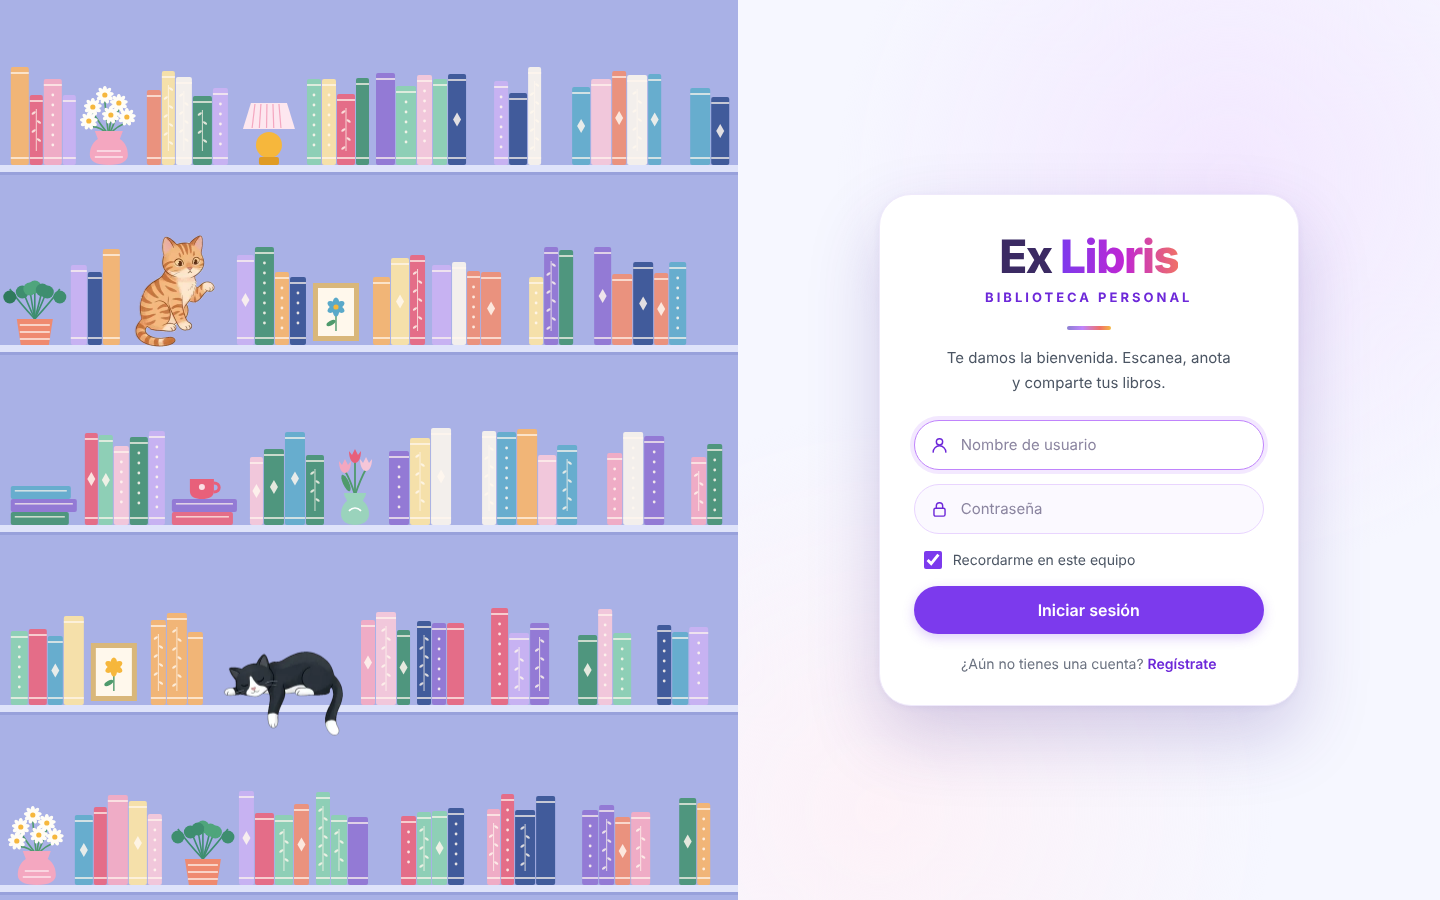
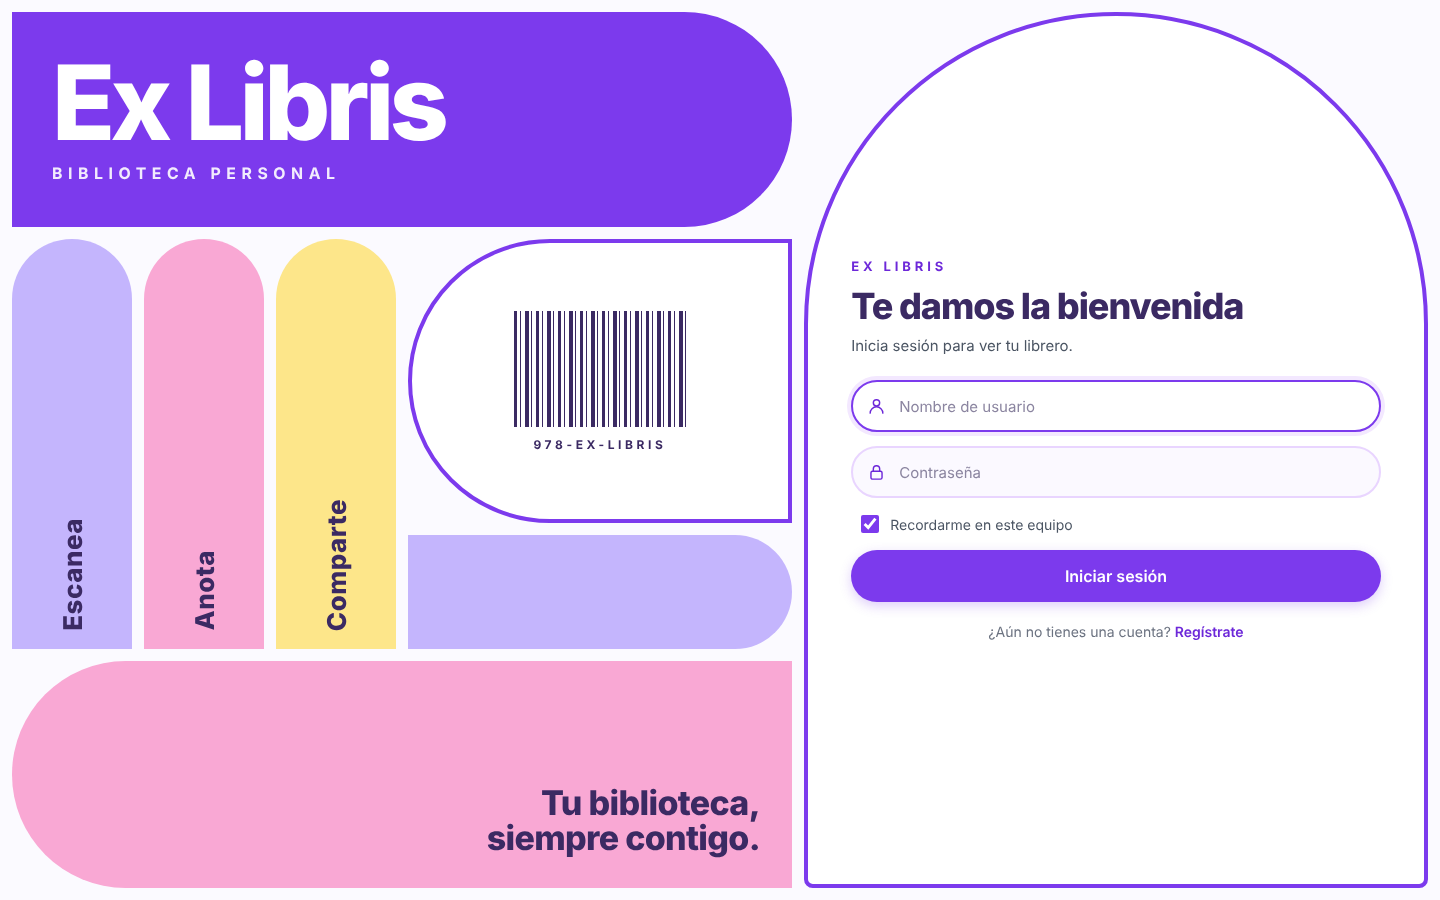
Login rediseñado como cartel geométrico de bloques-libro
- Cartel con CSS Grid: marca, lomos Escanea/Anota/Comparte, código de barras y lema
- Formulario dentro de un lomo blanco con arco superior
- Se elimina la ilustración del librero con gatos y su generador

Claude-Session: https://claude.ai/code/session_01GYL794gNVj3QXKcKwqtHSP

diff --git a/biblioteca/static/biblioteca/css/exlibris.css b/biblioteca/static/biblioteca/css/exlibris.css
@@ -456,37 +456,63 @@ a:focus-visible, button:focus-visible, select:focus-visible, input[type=file]:fo
 .separador { display: flex; align-items: center; gap: 12px; color: var(--texto-suave); font-size: 13px; margin: 22px 0; }
 .separador::before, .separador::after { content: ""; flex: 1; height: 1px; background: var(--borde); }
 
-/* ---------- Acceso (login / registro) ----------
-   Dos columnas: ilustración del librero con dos gatos a la izquierda y la tarjeta de la marca a la derecha.
-   Tarjeta: blanca; jerarquía marca → subtítulo → bienvenida → formulario. */
-.acceso { min-height: 100vh; min-height: 100dvh; display: grid; grid-template-columns: 1.05fr 1fr; background: var(--fondo); }
-.acceso-arte { background-color: #a9b1e6; background-size: cover; background-position: center; }
-.acceso-lado { display: grid; place-items: center; padding: 40px 24px;
-  background: radial-gradient(circle at 70% 20%, #f3e8ff 0, transparent 45%), radial-gradient(circle at 20% 90%, #fdf2f8 0, transparent 40%), var(--fondo); }
-.acceso-tarjeta {
-  width: min(420px, 100%); border-radius: 32px; background: #fff; border: 1px solid #efe9fb;
-  box-shadow: 0 30px 70px rgba(76, 52, 150, .22), 0 2px 6px rgba(76, 52, 150, .06); padding: 38px 34px 30px;
+/* ---------- Acceso (login / registro): cartel geométrico de bloques-libro + formulario en un «lomo» ----------
+   Inspirado en carteles suizos: rectángulos y píldoras que son libros, con la paleta de la app. */
+.acceso { min-height: 100vh; min-height: 100dvh; display: grid; grid-template-columns: minmax(0, 1.25fr) minmax(380px, 1fr); gap: 12px; padding: 12px; background: #fbfaff; }
+.cartel {
+  display: grid; gap: 12px; height: calc(100dvh - 24px); min-height: 620px;
+  grid-template-columns: repeat(6, minmax(0, 1fr)); grid-template-rows: 1.9fr 1.4fr 1fr 1fr 1fr 0.9fr;
+  grid-template-areas:
+    "marca marca marca marca marca marca"
+    "lila  rosa  amar  cod   cod   cod"
+    "lila  rosa  amar  cod   cod   cod"
+    "lila  rosa  amar  der   der   der"
+    "pie   pie   pie   pie   pie   pie"
+    "pie   pie   pie   pie   pie   pie";
 }
-.acceso-marca { text-align: center; margin-bottom: 24px; }
-.marca { font-size: 46px; font-weight: 800; letter-spacing: -1.5px; line-height: 1; }
-.marca-ex { color: #3b2a63; }
-.marca-libris { background: linear-gradient(90deg, #7c3aed 0%, #c026d3 55%, #f07167 100%); -webkit-background-clip: text; background-clip: text; color: transparent; }
-.marca-sub { margin-top: 8px; font-size: 13px; font-weight: 700; letter-spacing: 3px; text-transform: uppercase; color: var(--primario-texto); }
-.marca-adorno { display: block; width: 44px; height: 4px; margin: 18px auto 16px; border-radius: 999px; background: var(--degradado-arcoiris); }
-.marca-texto { color: var(--texto-medio); font-size: 15px; max-width: 30ch; margin: 0 auto; }
+.bloque { position: relative; overflow: hidden; display: flex; }
+.b-marca { grid-area: marca; flex-direction: column; justify-content: flex-end; padding: clamp(20px, 3vw, 40px);
+  background: #7c3aed; color: #fff; border-radius: 0 999px 999px 0; }
+.cartel-marca { font-size: clamp(48px, 7.2vw, 112px); font-weight: 800; letter-spacing: -0.045em; line-height: .9; }
+.cartel-sub { margin-top: 12px; font-size: clamp(13px, 1.1vw, 16px); font-weight: 700; letter-spacing: .35em; text-transform: uppercase; opacity: .9; }
+.b-lomo { border-radius: 999px 999px 0 0; align-items: flex-end; justify-content: center; padding-bottom: 18px; }
+.b-lomo span { writing-mode: vertical-rl; transform: rotate(180deg); font-size: clamp(18px, 1.8vw, 26px); font-weight: 800; letter-spacing: .02em; color: #3b2a63; }
+.b-lila { grid-area: lila; background: #c4b5fd; }
+.b-rosa { grid-area: rosa; background: #f9a8d4; }
+.b-amarillo { grid-area: amar; background: #fde68a; }
+.b-codigo { grid-area: cod; flex-direction: column; justify-content: center; align-items: center; gap: 10px;
+  background: #fff; border: 4px solid #7c3aed; border-radius: 999px 0 0 999px; }
+.codigo-barras { width: 46%; height: 42%;
+  background: repeating-linear-gradient(90deg, #3b2a63 0 3px, transparent 3px 6px, #3b2a63 6px 7px, transparent 7px 11px, #3b2a63 11px 15px, transparent 15px 17px, #3b2a63 17px 18px, transparent 18px 22px); }
+.b-codigo small { font-size: 12px; font-weight: 700; letter-spacing: .3em; color: #3b2a63; }
+.b-derecha { grid-area: der; background: #c4b5fd; border-radius: 0 999px 999px 0; }
+.b-pie { grid-area: pie; align-items: flex-end; padding: clamp(18px, 2.4vw, 32px); background: #f9a8d4; border-radius: 999px 0 0 999px; justify-content: flex-end; }
+.b-pie p { font-size: clamp(20px, 2.4vw, 34px); font-weight: 800; letter-spacing: -0.02em; color: #3b2a63; max-width: 14ch; text-align: right; line-height: 1.05; }
+
+/* Formulario dentro de un «lomo» con la parte de arriba en arco */
+.acceso-lado { display: grid; place-items: stretch; }
+.acceso-tarjeta {
+  display: flex; flex-direction: column; justify-content: center; gap: 22px; padding: clamp(32px, 4vw, 56px) clamp(24px, 3vw, 48px);
+  background: #fff; border: 4px solid #7c3aed; border-radius: 999px 999px 28px 28px;
+}
+.acceso-marca { text-align: left; }
+.marca-chica { font-size: 13px; font-weight: 700; letter-spacing: .3em; text-transform: uppercase; color: var(--primario-texto); margin-bottom: 10px; }
+.acceso-marca h2 { font-size: clamp(28px, 2.6vw, 36px); font-weight: 800; letter-spacing: -0.03em; color: #3b2a63; line-height: 1.05; }
+.marca-texto { color: var(--texto-medio); font-size: 15px; margin-top: 8px; }
 .acceso-formulario { display: grid; gap: 14px; }
 .campo-icono { position: relative; display: block; }
 .campo-icono .icono-campo { position: absolute; left: 16px; top: 50%; transform: translateY(-50%); color: var(--primario-texto); display: grid; pointer-events: none; }
 .campo-icono .icono-campo .icono { width: 19px; height: 19px; }
 .campo-icono input {
-  width: 100%; height: 50px; padding: 0 18px 0 46px; border-radius: 999px; font: inherit; color: var(--texto);
-  border: 1px solid var(--lila-200); background: #fbf9ff; outline: 0; transition: border .15s, box-shadow .15s, background .15s;
+  width: 100%; height: 52px; padding: 0 18px 0 46px; border-radius: 999px; font: inherit; color: var(--texto);
+  border: 2px solid var(--lila-200); background: #fbf9ff; outline: 0; transition: border .15s, box-shadow .15s, background .15s;
 }
 .campo-icono input::placeholder { color: #8b85a0; }
-.campo-icono input:focus { border-color: var(--lila-400); background: #fff; box-shadow: 0 0 0 4px var(--lila-100); }
+.campo-icono input:focus { border-color: #7c3aed; background: #fff; box-shadow: 0 0 0 4px var(--lila-100); }
 .campo-icono.con-error input { border-color: var(--peligro); }
 .recordarme { display: flex; align-items: center; gap: 8px; font-size: 14px; color: var(--texto-medio); cursor: pointer; padding-left: 6px; }
 .recordarme input { width: 18px; height: 18px; accent-color: var(--primario); }
+.acceso-formulario .boton-ancho { min-height: 52px; }
 .acceso-error { display: flex; align-items: center; gap: 8px; padding: 10px 14px; border-radius: var(--radio-sm); background: var(--peligro-fondo); color: var(--peligro); font-size: 14px; font-weight: 500; }
 .acceso-error-campo { margin: -8px 0 0 18px; color: var(--peligro); font-size: 13px; }
 .acceso-formulario p.cambio { text-align: center; color: var(--texto-suave); font-size: 14px; margin-top: 4px; }
@@ -534,11 +560,16 @@ a:focus-visible, button:focus-visible, select:focus-visible, input[type=file]:fo
   .estante-libros .portada-falsa small, .estante-libros .portada-falsa .adorno { display: none; }
   .titulo-pagina { font-size: 24px; }
   .tabla-envoltura { overflow-x: auto; }
-  .acceso { grid-template-columns: 1fr; }
-  .acceso-arte { min-height: 260px; background-position: center 30%; } /* encuadre con el gato naranja */
-  .acceso-lado { padding: 0 14px 28px; place-items: start center; background: var(--fondo); }
-  .acceso-tarjeta { margin-top: -44px; position: relative; padding: 30px 22px 24px; border-radius: 28px; }
-  .marca { font-size: 40px; }
+  .acceso { grid-template-columns: 1fr; gap: 8px; padding: 8px; }
+  .cartel { height: auto; min-height: 0; gap: 8px; grid-template-rows: 120px 110px;
+    grid-template-areas: "marca marca marca marca marca marca" "lila lila rosa rosa amar amar"; }
+  .b-codigo, .b-derecha, .b-pie { display: none; }
+  .b-lomo { border-radius: 999px 999px 0 0; padding-bottom: 12px; }
+  .b-lomo span { writing-mode: horizontal-tb; transform: none; font-size: 16px; }
+  .b-marca { border-radius: 0 999px 999px 0; padding: 18px 22px; }
+  .cartel-marca { font-size: 46px; }
+  .cartel-sub { font-size: 11px; margin-top: 6px; }
+  .acceso-tarjeta { border-radius: 28px; padding: 28px 20px; gap: 18px; }
 
   /* Barra inferior como en la app de diario: blanca, el activo en lila con un punto encima */
   .nav-movil {

diff --git a/biblioteca/templates/registration/login.html b/biblioteca/templates/registration/login.html
@@ -3,14 +3,13 @@
 {% block titulo %}Iniciar sesión{% endblock %}
 {% block cuerpo %}
 <main class="acceso">
-  <div class="acceso-arte" style="background-image: url('{% estatico 'biblioteca/img/librero-login.svg' %}')" role="img" aria-label="Librero con libros de colores, plantas y dos gatos"></div>
+  {% include "registration/_cartel.html" %}
   <div class="acceso-lado">
   <div class="acceso-tarjeta">
     <header class="acceso-marca">
-      <h1 class="marca"><span class="marca-ex">Ex</span> <span class="marca-libris">Libris</span></h1>
-      <p class="marca-sub">Biblioteca personal</p>
-      <span class="marca-adorno" aria-hidden="true"></span>
-      <p class="marca-texto">Te damos la bienvenida. Escanea, anota y comparte tus libros.</p>
+      <p class="marca-chica">Ex Libris</p>
+      <h2>Te damos la bienvenida</h2>
+      <p class="marca-texto">Inicia sesión para ver tu librero.</p>
     </header>
     <form method="post" class="acceso-formulario" novalidate>
       {% csrf_token %}

diff --git a/biblioteca/templates/registration/registro.html b/biblioteca/templates/registration/registro.html
@@ -3,14 +3,13 @@
 {% block titulo %}Registro{% endblock %}
 {% block cuerpo %}
 <main class="acceso">
-  <div class="acceso-arte" style="background-image: url('{% estatico 'biblioteca/img/librero-login.svg' %}')" role="img" aria-label="Librero con libros de colores, plantas y dos gatos"></div>
+  {% include "registration/_cartel.html" %}
   <div class="acceso-lado">
   <div class="acceso-tarjeta">
     <header class="acceso-marca">
-      <h1 class="marca"><span class="marca-ex">Ex</span> <span class="marca-libris">Libris</span></h1>
-      <p class="marca-sub">Biblioteca personal</p>
-      <span class="marca-adorno" aria-hidden="true"></span>
-      <p class="marca-texto">Crea tu cuenta y empieza tu librero: escanea, anota y comparte tus libros.</p>
+      <p class="marca-chica">Ex Libris</p>
+      <h2>Crea tu cuenta</h2>
+      <p class="marca-texto">Empieza tu librero en un minuto.</p>
     </header>
     <form method="post" class="acceso-formulario" novalidate>
       {% csrf_token %}

diff --git a/biblioteca/templates/registration/_cartel.html b/biblioteca/templates/registration/_cartel.html
@@ -1,0 +1,18 @@
+{# Cartel geométrico de la pantalla de acceso: cada bloque es un libro (lomos, pilas y tapas). #}
+<section class="cartel" aria-label="Ex Libris, biblioteca personal">
+  <div class="bloque b-marca">
+    <h1 class="cartel-marca">Ex Libris</h1>
+    <p class="cartel-sub">Biblioteca personal</p>
+  </div>
+  <div class="bloque b-lomo b-lila"><span>Escanea</span></div>
+  <div class="bloque b-lomo b-rosa"><span>Anota</span></div>
+  <div class="bloque b-lomo b-amarillo"><span>Comparte</span></div>
+  <div class="bloque b-codigo" aria-hidden="true">
+    <span class="codigo-barras"></span>
+    <small>978-EX-LIBRIS</small>
+  </div>
+  <div class="bloque b-borde b-derecha" aria-hidden="true"></div>
+  <div class="bloque b-pie">
+    <p>Tu biblioteca, siempre contigo.</p>
+  </div>
+</section>

diff --git a/biblioteca/tests/test_libros.py b/biblioteca/tests/test_libros.py
@@ -191,5 +191,5 @@ class CacheImagenesTests(ConUsuario):
     def test_imagenes_con_version(self):
         self.client.logout()
         html = self.client.get(reverse("login")).content.decode()
-        self.assertRegex(html, r'librero-login\.svg\?v=\d+')
+        self.assertRegex(html, r'exlibris\.css\?v=\d+')
         self.assertNotRegex(html, r'\.(svg|css)["\')]')  # ningún estático sin versión

diff --git a/AI_LOG.md b/AI_LOG.md
@@ -42,3 +42,4 @@ La IA generativa *dentro* de la app (fase 2) usará un LLM gratuito (Gemini u Ol
 | 28 | 2026-11-26 | QA visual | Claude Code | (Dentro de la fila 27) | El carrusel ensanchaba la página (3312 px) porque la fila de libros no tenía límite de ancho dentro de la cuadrícula; corregido con `minmax(0, 1fr)` y `min-width: 0`. Se midió la altura de todos los campos del formulario: 46 px en todos | 🔴🟡 Error de la IA detectado en la revisión |
 | 29 | 2026-11-26 | Funcionalidad | Claude Code | Después de 10 libros, algo que lleve a la lista de esa categoría; arrastrar el carrusel con el mouse y deslizar con el dedo | Cada estante muestra máximo 10 libros y una tarjeta «+N · Ver los N libros» que abre la lista filtrada por ese estado. Arrastre con el mouse (pointer events) que no abre un libro por accidente al soltar; en el celular el deslizamiento es nativo. Verificado en el navegador: el arrastre mueve el estante y la tarjeta lleva a `?estado=leido&vista=lista`. 119 pruebas | ⏳ Pendiente de revisión |
 | 30 | 2026-11-26 | Diseño | Claude Code | «Guardar cambios» → «Guardar»; botón de editar de Compartidos a la derecha; mejor distribución de la tarjeta «Compartir» y del formulario de anotaciones; etiquetas en la paleta pastel | Editar en su propia columna al final de cada fila. Tarjeta «Compartir» con tres datos (con quién, desde, devolución), franja «¿Ya te lo devolvieron?» con «Devuelto» y editar, e historial en lista. Anotación: texto arriba y página + «Anotar» en una fila. Etiquetas: Compartido/Activo = morado, Devuelto = rosado, En casa = amarillo, Vencido = rojo suave. 119 pruebas | ⏳ Pendiente de revisión |
+| 31 | 2026-11-26 | Diseño | Claude Code | Rediseñar el login como carteles suizos de bloques-libro (referencias de Pinterest) con la paleta y la tipografía de la app | Cartel hecho solo con CSS Grid: bloque «Ex Libris» en píldora violeta, tres lomos (Escanea · Anota · Comparte) en lila, rosado y amarillo, bloque con código de barras (guiño al escáner de ISBN) y pila inferior con el lema. Formulario dentro de un «lomo» blanco con borde violeta y arco superior. Se elimina la ilustración con gatos. En el celular, cartel compacto arriba y formulario debajo. Primera versión con esquinas elípticas en porcentaje que deformaban las píldoras; corregido a radios semicirculares | ⏳ Pendiente de revisión |

diff --git a/README.md b/README.md
@@ -84,10 +84,3 @@ exlibris/
 ├── specs/                  ODD / SDD
 └── AI_LOG.md
 ```
-
-## Créditos de las ilustraciones
-
-- Librero del login, pila de libros, íconos y adornos: dibujados en SVG para este proyecto
-  (la ilustración del login se genera con `python docs/generar_ilustracion.py`).
-- Gatos de la estantería: imágenes aportadas por la autora como referencia visual (`docs/gatos/`),
-  recortadas del fondo para usarlas en la ilustración.
